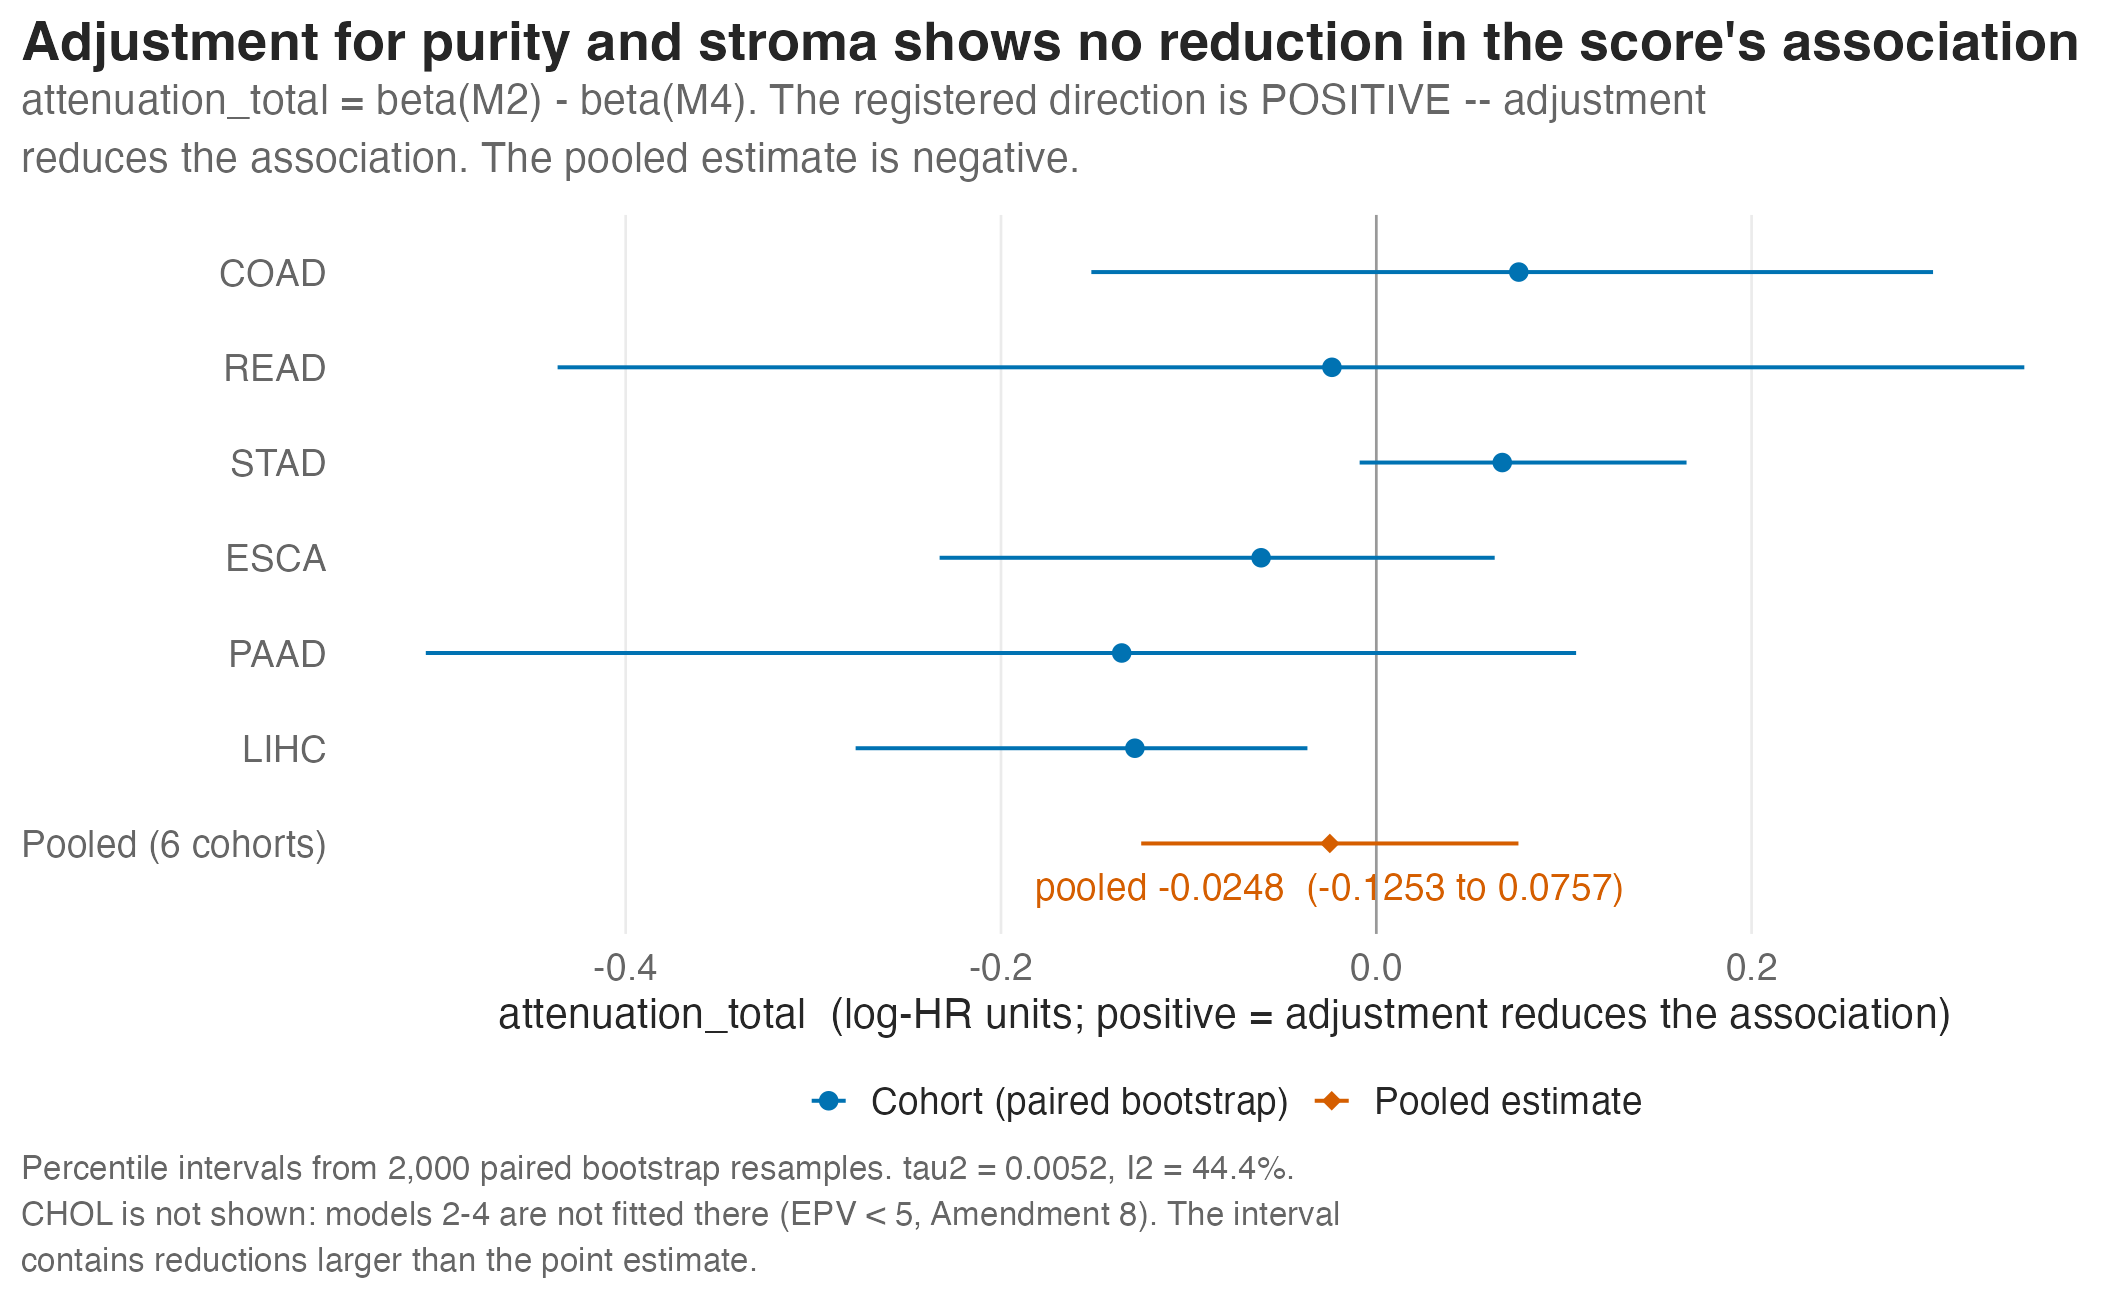
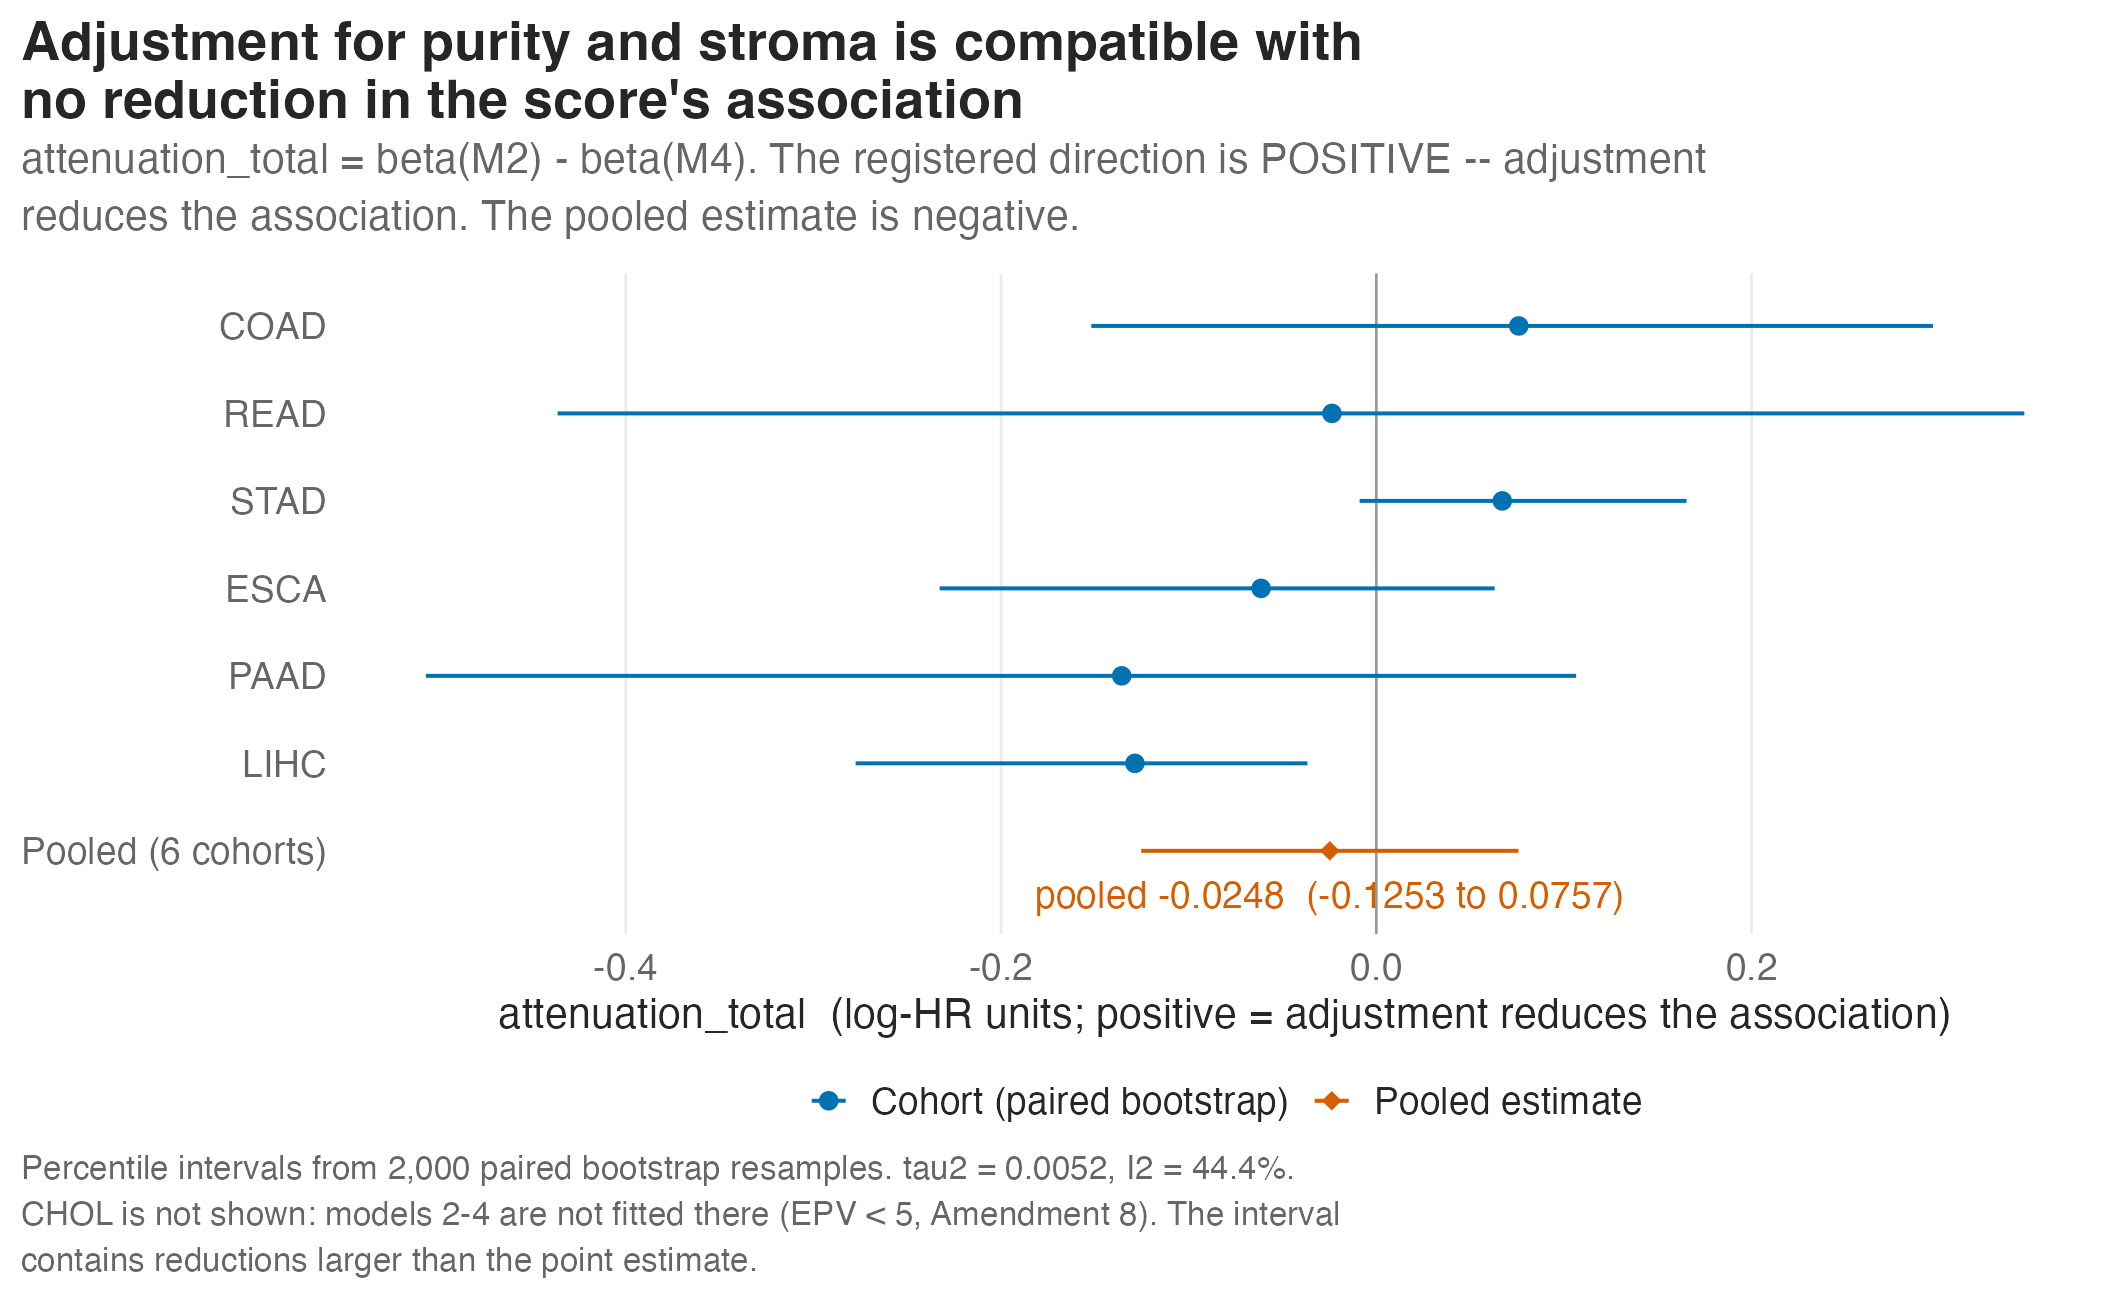
Correct the last two overstated titles; declare the figure set final
TITLES. Both overstated in the same way the RPPA and colorectal titles already
did -- stating a point estimate's sign, or an interval's exclusion, as an
established finding when the interval is compatible with the alternative:

  fig4        "shows no reduction in the score's association"
           -> "is compatible with no reduction in the score's association"
              The pooled attenuation interval is -0.1253 to 0.0757 and CONTAINS
              reductions up to 0.0757. The data are compatible with no reduction;
              they do not demonstrate one.

  figure_main "performs at the median of matched random signatures"
           -> "performs near the median of matched random signatures"
              The observed value is at the 60.5th percentile, not the 50th.
              "near" matches the abstract.

Wording only. No number, no data and no plotted element changed. Re-rendered,
RC=0, all 29 checks pass (26 assert_plot comparisons + 3 other checks: the
self-test summary, the null-draw export, the fig5 group-count reconciliation).
Perceptual check run on both: titles fit, nothing clipped.

FIGURE SET DECLARED FINAL in FIGURE_DATA.md. Every one of the 17 files on disk
carries exactly one status, none unassigned:
  MAIN TEXT (4)  figure_main, fig3_compartment_heatmap (the SELECTED fig 3),
                 figure_crc_pool, figure_rppa_concordance
  SUPPLEMENT (7) figS_forest_M4, fig1, fig2, fig6, fig4, fig5, and
[…]

diff --git a/FIGURE_DATA.md b/FIGURE_DATA.md
@@ -275,3 +275,72 @@ stacked-bar version spends most of its ink on the "other compartments" remainder
 which is 1 − f and carries no independent information, and its dominance diamond
 has to float above the bar to avoid overprinting. Both are produced; the heatmap is
 the selected figure and the bars are the alternative.
+
+---
+
+# FINAL FIGURE SET — status of every file (2026-08-05)
+
+The set is **final**. Below, every figure on disk is assigned exactly one status.
+`figures/refined/` is the live directory; `figures/` is retained only as the
+committed record of the earlier rendering. **17 files, 3 statuses, no file
+unassigned.**
+
+## Main text — 4 figures
+
+| File | Content |
+|---|---|
+| `figures/refined/figure_main.png` | 3 panels: **A** null distribution with the panel marked, **B** forest of M1 across six discovery cohorts + pooled, with GSE39582 in its own band, **C** the FU-iCCA pY705 scatter |
+| `figures/refined/fig3_compartment_heatmap.png` | compartment attribution, gene × atlas × π, with dominance marked — **the selected figure 3** |
+| `figures/refined/figure_crc_pool.png` | colorectal pooling, EXPLORATORY POST-HOC |
+| `figures/refined/figure_rppa_concordance.png` | the four RPPA comparisons, EXPLORATORY POST-HOC |
+
+## Supplement — 7 figures
+
+| File | Why it is supplement, not main |
+|---|---|
+| `figures/refined/figS_forest_M4.png` | the M4 panel dropped from the main figure |
+| `figures/refined/fig1_null_distribution.png` | standalone version of main panel A |
+| `figures/refined/fig2_forest_logHR.png` | standalone forest, both M1 and M4 |
+| `figures/refined/fig6_fuicca_y705_scatter.png` | standalone version of main panel C |
+| `figures/refined/fig4_attenuation_forest.png` | attenuation per cohort with the pooled estimate |
+| `figures/refined/fig5_score_by_cms.png` | score by CMS, COAD and READ (deferred B.o.1 item) |
+| `figures/refined/fig3_compartment_bars.png` | **the alternative** figure 3 — stacked bars, same data, retained for comparison |
+
+Three of these (`fig1`, `fig2` in its M1 half, `fig6`) are standalone renderings
+of content that also appears in `figure_main`. That is deliberate: a supplement
+reader should not have to crop a composite. They are the same data behind the same
+assertions, not independent analyses.
+
+## Superseded — 6 figures, retained but not for use
+
+Everything in `figures/` (not `figures/refined/`) is the earlier rendering from
+`11_figures.R`. It is kept because it is committed history and because
+`11_figures.R` remains a working script, but **no file in `figures/` should be
+used in the manuscript**:
+
+`fig1_null_distribution.png`, `fig2_forest_logHR.png`,
+`fig3_compartment_attribution.png`, `fig4_attenuation_forest.png`,
+`fig5_score_by_cms.png`, `fig6_fuicca_y705_scatter.png`
+
+Five are superseded by a same-named file in `figures/refined/`.
+`fig3_compartment_attribution.png` has no same-named successor: it was replaced by
+the two variants `fig3_compartment_heatmap.png` (selected) and
+`fig3_compartment_bars.png` (alternative).
+
+## Four claim-titles were corrected before the set was finalised
+
+Every title must be true of every plotted element. Four asserted more than the
+data support, and all four were corrected — the last two on 2026-08-05:
+
+| Figure | Was | Is |
+|---|---|---|
+| RPPA concordance | "**disagrees with** total STAT3" | "shows **no established agreement** with total STAT3" — the pooled interval (−0.064 to 0.331) spans zero, which cannot establish disagreement |
+| colorectal pooling | "**excludes** a per-SD increase above 9%" | "the data are **compatible with at most** a 9% per-SD increase" — the old title contradicted its own caption |
+| `fig4` attenuation | "**shows no reduction** in the score's association" | "is **compatible with** no reduction in the score's association" — the interval (−0.1253 to 0.0757) contains reductions up to 0.0757 |
+| `figure_main` | "performs **at the median**" | "performs **near the median**" — the observed value is at the 60.5th percentile, not the 50th |
+
+The pattern in all four: stating a point estimate's sign, or an interval's
+exclusion, as an established finding when the interval is compatible with the
+alternative. The corrections change wording only — **no number, no data, and no
+plotted element changed**, and all 29 checks (26 `assert_plot` comparisons + 3
+other checks) pass unchanged after each.

diff --git a/NOTES_FOR_REVIEW.md b/NOTES_FOR_REVIEW.md
@@ -289,6 +289,39 @@ Two further audit findings on the rename block, both mine:
   `match()` could not fail either. Replaced with a check on something ESTIMATE
   can actually do wrong — returning a non-finite score.
 
+## 46. fig5's JITTER IS UNSEEDED — the figure is not byte-reproducible
+
+Found while confirming that only the two intended titles changed: `git status`
+showed `fig5_score_by_cms.png` modified, though I had not touched its title.
+
+**Diagnosis.** Line 628 uses `geom_jitter(width = 0.13, ...)` and **no seed is set
+anywhere in the script**. The jitter draws from R's RNG, so the point cloud lands
+differently on every render. Confirmed decisively: two consecutive runs with *no
+source change at all* differ in **1.935%** of the decompressed pixel stream
+(167,565 bytes). My first reading — "identical pixels, metadata-only difference" —
+was wrong, and the rerun test is what caught it.
+
+**What this does and does not affect.**
+
+- It does **not** affect any reported number. Jitter is a display offset on the
+  raw points; the violins, boxplots, group counts and the caption statistics are
+  computed from the data and are unchanged. All 29 checks pass identically on
+  every run, `fig5` group counts included.
+- It **does** mean `fig5` is not byte-reproducible: re-running the script produces
+  a visually equivalent but not identical figure. For a project whose whole
+  discipline is that a rerun reproduces the artefact exactly, that is a real
+  defect, and it is the only figure with this property (`fig4` also changed this
+  round, but for the intended reason — its title was corrected).
+
+**Not fixed here.** The run order for this round was explicit that no figure was
+to be modified, and the fix — `set.seed()` before the jitter, or
+`position_jitter(seed = ...)` — necessarily re-renders `fig5`. One line, no
+number affected, but it is a figure change and therefore the author's call.
+
+**Recommended fix when figure work resumes:**
+`geom_jitter(position = position_jitter(width = 0.13, height = 0, seed = 42), ...)`
+which pins the offsets without touching anything else.
+
 ## 45. AUDIT OF THE REFINED FIGURE SET — second attempt, static, one finding
 
 **First attempt (2026-08-03): no verdict.** Dispatched before the run as required,
